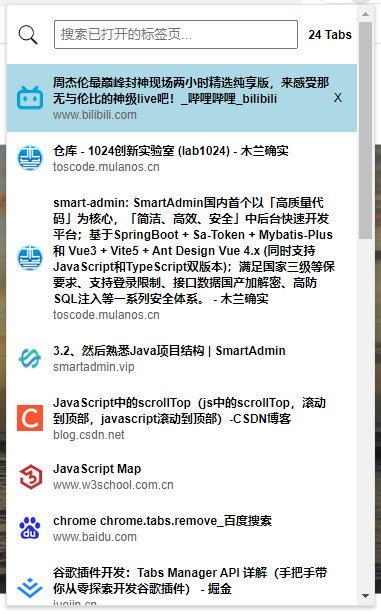
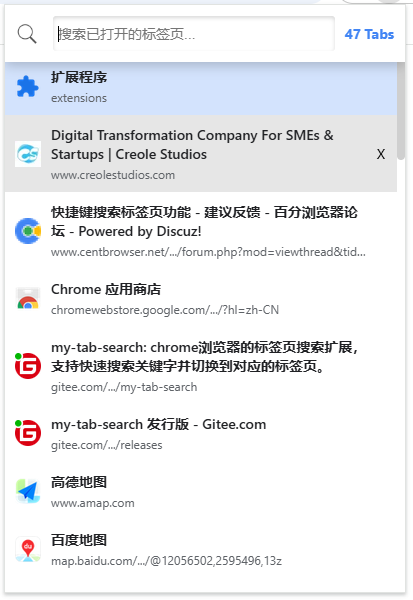
调整文档说明;调整搜索框高度与样式；

diff --git a/popup.css b/popup.css
@@ -1,6 +1,5 @@
 body {
   width: 400px;
-  /*min-height: 600px;*/
   height: auto; /* 让高度自适应内容，但在限制范围内 */
   padding: 0;
   margin: 0;
@@ -25,7 +24,6 @@ body {
   align-items: center;
   justify-content: space-between;
   padding: 10px 0 10px 5px;
-  /*margin: 10px 0 10px 0;*/
   background-color: white;
   backdrop-filter: blur(10px);
   box-shadow: 0 4px 12px rgba(0, 0, 0, 0.2);
@@ -49,6 +47,7 @@ body {
 
 #search-input {
   flex-grow: 1;
+  height: 25px;
   margin: 0 10px;
   padding: 5px;
   vertical-align: middle;
@@ -57,7 +56,8 @@ body {
   outline: none;
   background-color: transparent;
   font-size: 14px;
-  box-shadow: inset 0 2px 4px rgba(0, 0, 0, 0.05);
+  box-shadow: inset 0 2px 4px rgba(0, 0, 0, 0.15);
+  border-radius: 3px;
 }
 
 #tab-count {
@@ -74,10 +74,8 @@ body {
   overflow: hidden; /* 隐藏溢出内容 */
   display: flex;
   flex-direction: column;
-  /*border-radius: 12px;*/
   margin-top: -5px; /* 与上面元素衔接 */
-  max-height: calc(675px - 120px); /* 最大高度减去搜索框和其他元素的高度 */
-  /*min-height: 0; !* 允许容器收缩 *!*/
+  max-height: calc(675px - 140px); /* 最大高度减去搜索框和其他元素的高度 */
   width: 100%; /* 确保不超出父容器宽度 */
   box-sizing: border-box; /* 确保padding和border包含在宽度内 */
 }
@@ -88,7 +86,6 @@ body {
   margin: 0;
   overflow-y: auto; /* 垂直滚动 */
   flex: 1; /* 占据容器全部空间 */
-  /*border-radius: 12px;*/
   background-color: white;
   width: 100%; /* 确保不超出父容器宽度 */
   box-sizing: border-box; /* 确保padding和border包含在宽度内 */

diff --git a/README.en.md b/README.en.md
@@ -3,8 +3,7 @@
 ![sample screenshot](images/image.png)
 
 ## Description
-Chrome browser tab management extension tools, supporting quick search for keywords and switch to the corresponding tab. Supporting to switch the selected tab entries by using the up and down arrow keys, and confirm to jump to the target page by pressing the enter key.
-
+A Chrome browser tab management extension that supports quick search by keywords and switching to the corresponding tabs. Supports using up/down arrow keys to switch selected tab entries, and pressing Enter to confirm navigation to the target page.
 
 ## Features
 
@@ -30,7 +29,12 @@ Chrome browser tab management extension tools, supporting quick search for keywo
 
 ## Keyboard Shortcut
 
-The default keyboard shortcut to toggle the extension is `Ctrl+Shift+A`.
+1. The shortcut key to invoke the tab list is `Ctrl+Shift+A`
+2. The shortcut key to quickly switch to the previous opened tab is Ctrl+Shift+S (since 1.6.0)
+3. If you find the default shortcuts not working, there might be key conflicts. You can adjust them at 【chrome://extensions/shortcuts】.
+4. For smoother usage, it's recommended to pin the extension directly to the browser panel after installation.
+
+![fix-icon](images/fix-icon.png)
 
 ## License
 